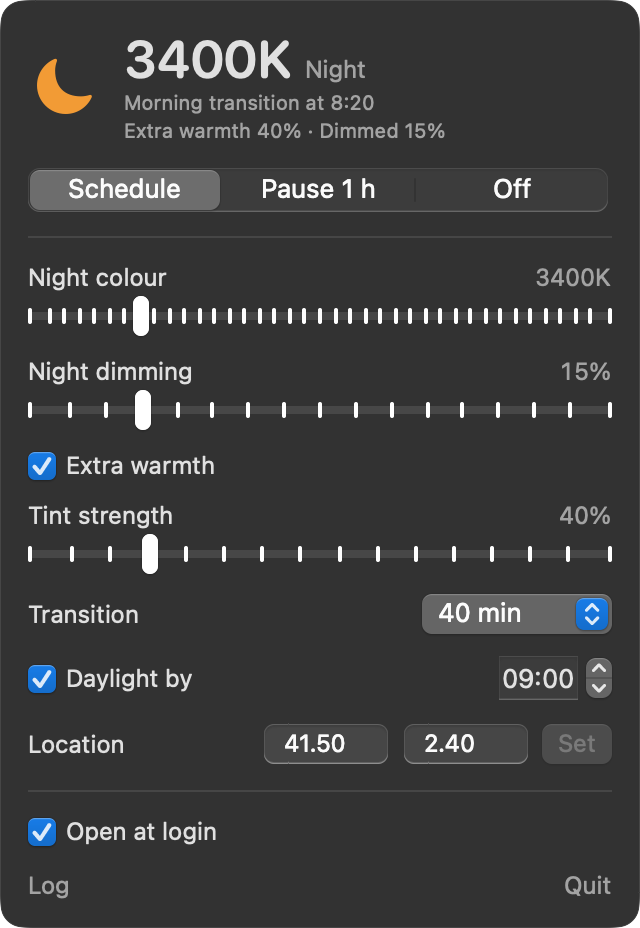
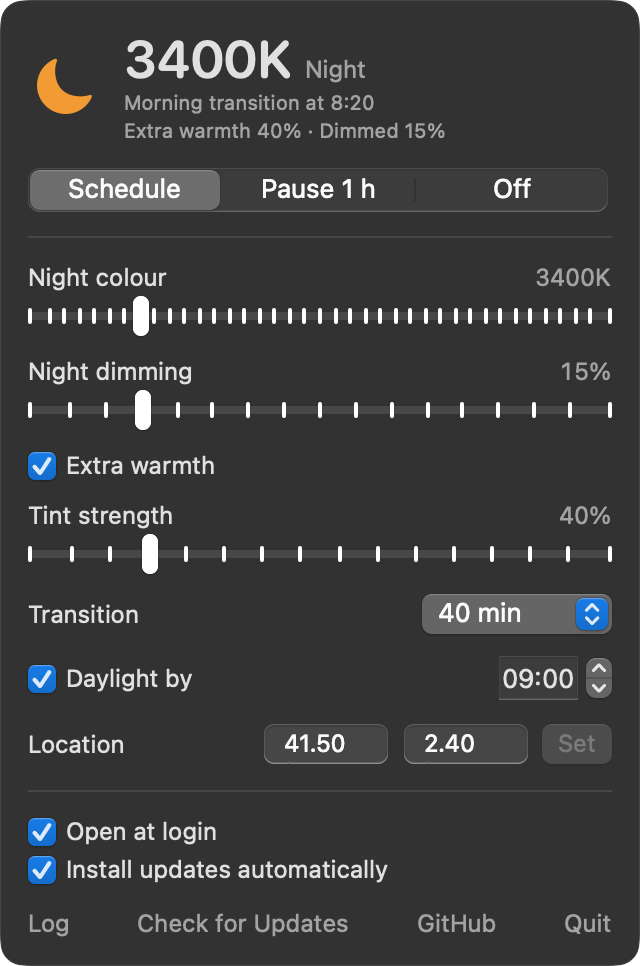
README: automatic updates, refreshed panel screenshots

diff --git a/docs/RELEASING.md b/docs/RELEASING.md
@@ -16,6 +16,7 @@ Releases are built and published by `.github/workflows/release.yml` when a versi
    - `MacDimScreen-macos-arm64.zip`: the menu bar app, bundling the daemon and installer
    - `macdimscreen-macos-arm64.tar.gz`: `dimd`, `dimctl`, `install.sh`, `uninstall.sh`
    - `SHA256SUMS`
+   - `SHA256SUMS.sig`: Ed25519 signature checked by the in-app updater, made with the `UPDATE_SIGNING_KEY` secret. The workflow fails rather than publish an unsigned release.
 6. Verify the release: `MDS_DOWNLOAD_ONLY=1 bash scripts/get.sh` downloads the latest release and checks its checksums without installing anything.
 
 Asset names carry no version, so `releases/latest/download/<asset>` always resolves to the newest release. `scripts/get.sh` depends on this.

diff --git a/README.md b/README.md
@@ -49,6 +49,7 @@ MacDimScreen gets the same result through parts of macOS that still work: Night 
 - **Night dimming** for late nights, even below the lowest brightness.
 - **Pause for an hour** or turn it off from the menu bar. Sliders preview live, even during the day.
 - **Every app is tinted the same**, on built-in and external displays.
+- **Updates itself.** New releases are checked, signature-verified and installed automatically (you can turn this off).
 - **Leaves no trace.** Quitting or uninstalling restores your Night Shift and colour filter settings.
 
 ## Install
